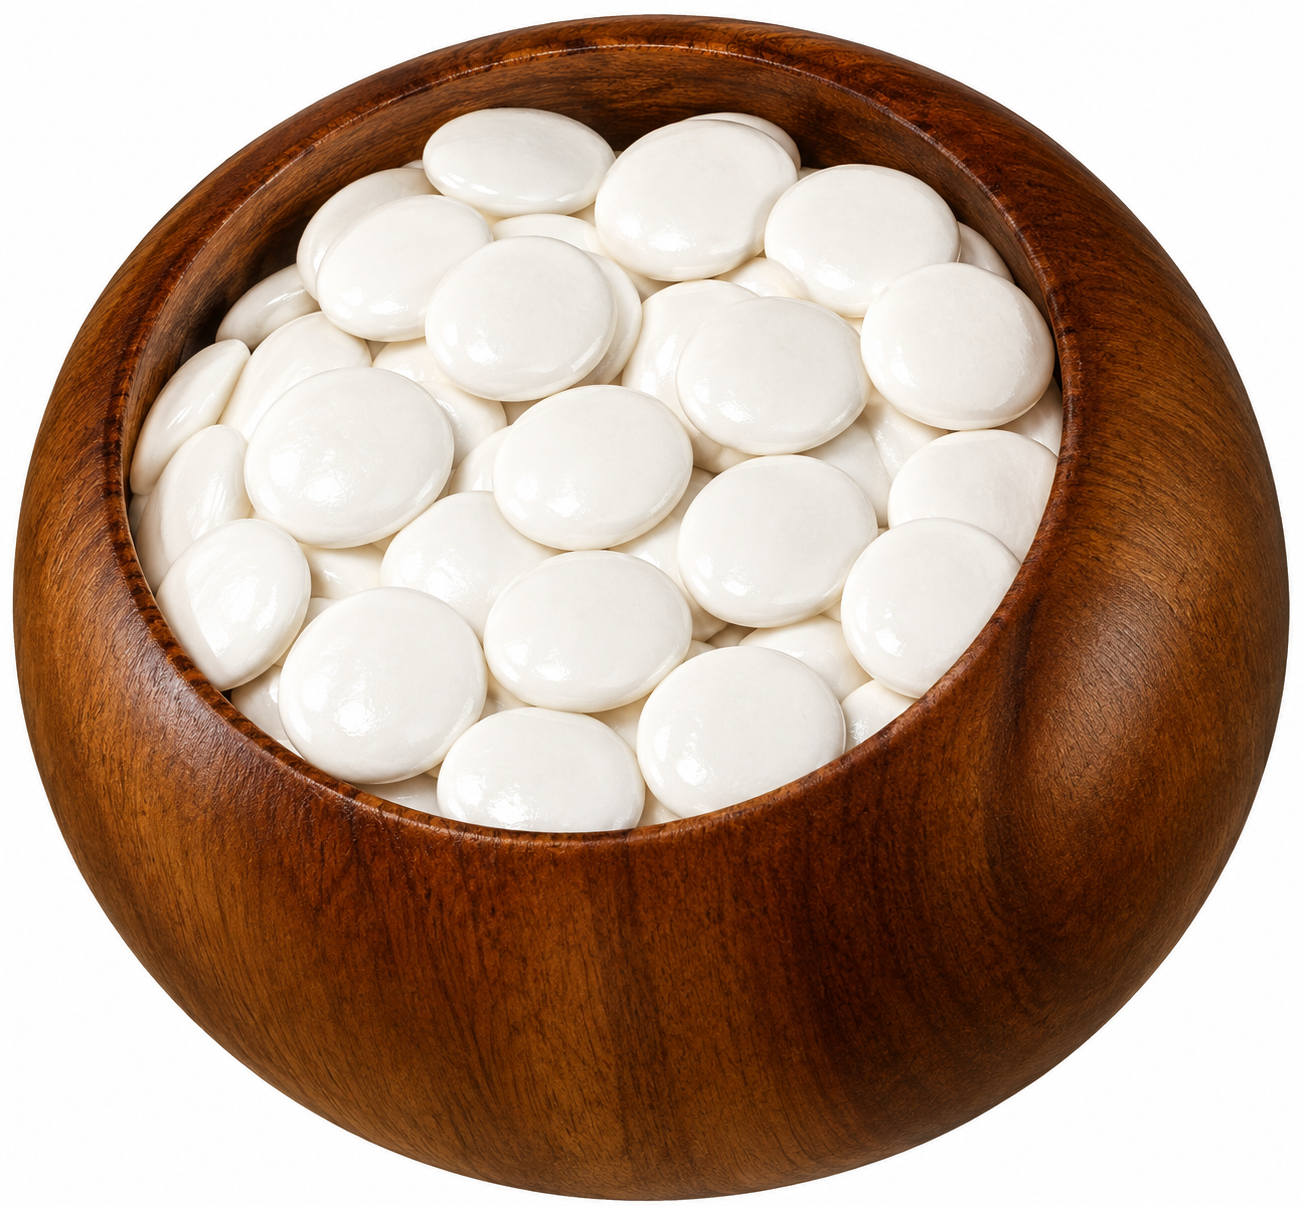
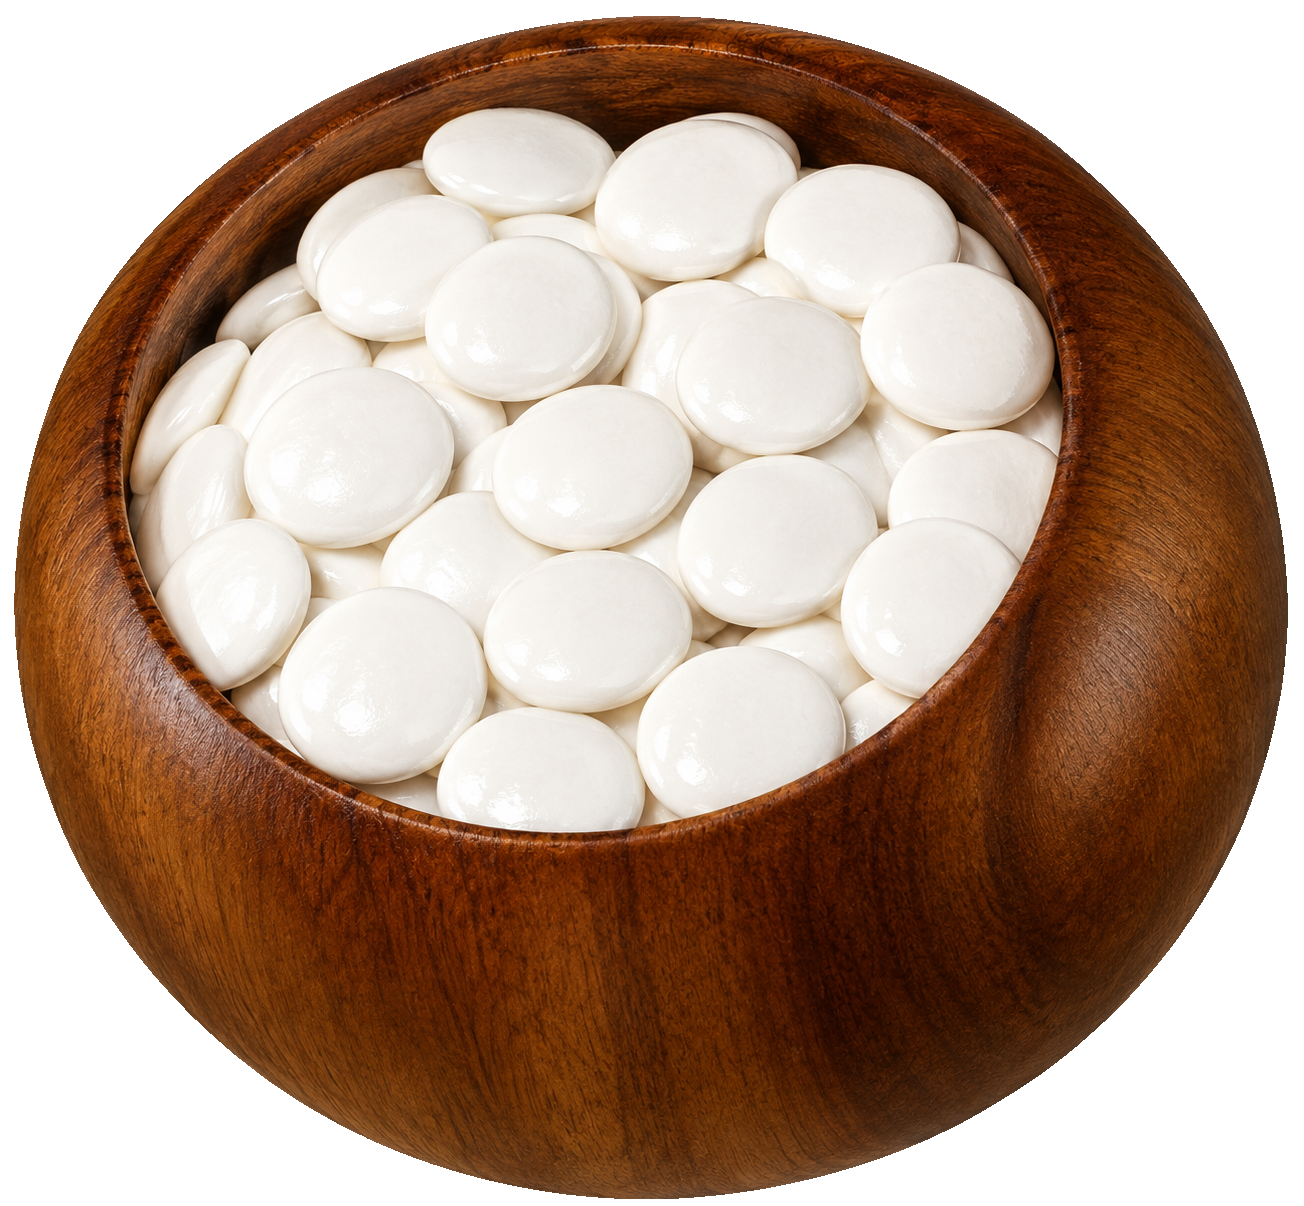
✨ UIの改善

Changed region(s): [[0.5215, 0.9818, 0.5828, 1.0], [0.3988, 0.9818, 0.4601, 1.0]]

diff --git a/components/PlayGround.tsx b/components/PlayGround.tsx
@@ -307,77 +307,103 @@ export function PlayGround({ playerIsBlack, computer, stageLabel, initialTime, t
     const pointerColor: (string | null)
         = (continueGame && (playerIsBlack === blackIsNext)) ? playerStoneColor : null;
 
+    const playerIsActive: boolean = continueGame && (playerIsBlack === blackIsNext);
+    const comBowlClass: string = "goishi-box-image-com"
+        + (!continueGame ? "" : (playerIsActive ? " bowl-waiting" : " bowl-active"));
+    const playerBowlClass: string = "goishi-box-image-player"
+        + (!continueGame ? "" : (playerIsActive ? " bowl-active" : " bowl-waiting"));
+
     return (
-        <div className="play-ground">
-            <div className="goishi-box-image-com">
-                {(playerIsBlack) &&
-                    <img src="goke-white.png"
-                        alt="white"
-                        width="96"
-                    />
-                }
-                {(!playerIsBlack) &&
-                    <img src="goke-black.png"
-                        alt="black"
-                        width="96"
-                    />
-                }
+        <div className="play-screen">
+            <div className="game-header">
+                <div className="stage-title">STAGE {stageLabel}</div>
             </div>
-            <div className="board-area">
-                <div className="turn-display">{thisTurnColor}</div>
-                <GameBoard
-                    boxes={history[currentMove]}
-                    handleClick={handleClick}
-                    pointerColor={pointerColor}
-                    markedMoves={markedMoves}
-                    winMoves={winMoves}
-                    crossMoves={crossMoves}
-                />
-                {blackIsNext !== playerIsBlack && continueGame &&
-                    <div className="computing-message">CPU考え中</div>
-                }
-                {!continueGame &&
-                    <div className="game-result">
-                        <div className="game-result-label">
-                            <div className="game-result-text">{timeIsUp ? "TIME UP" : (playerWins ? "WIN" : "LOSE")}</div>
-                            {resultNote !== "" &&
-                                <div className="game-result-note">{resultNote}</div>
+            <div className="play-ground">
+                <div className="com-area">
+                    <div className="side-block">
+                        <div className={comBowlClass}>
+                            {(playerIsBlack) &&
+                                <img src="goke-white.png"
+                                    alt="white"
+                                    width="96"
+                                />
+                            }
+                            {(!playerIsBlack) &&
+                                <img src="goke-black.png"
+                                    alt="black"
+                                    width="96"
+                                />
                             }
                         </div>
-                        <button className="game-result-button"
-                            onClick={() => onNext()}
-                        >{nextLabel}</button>
-                    </div>
-                }
-            </div>
-            <div className="game-info">
-                <div>Stage:{stageLabel}</div>
-                {hasTimeLimit &&
-                    <div className="remaining-time">
-                        <div className="time-bar">
-                            <div className={"time-bar-fill " + timeBarColor}
-                                style={{ width: (timeBarRatio * 100) + "%" }}
-                            />
+                        <div className="side-name">{computer.name}</div>
+                        <div className="side-stone-row">
+                            <span className={"side-stone " + (playerIsBlack ? "side-white" : "side-black")} />
+                            {playerIsBlack ? "後攻" : "先攻"}
                         </div>
-                        <div className={isHurrying ? "time-count time-count-hurry" : "time-count"}>{timeCount}</div>
-                        {bonusTime > 0 &&
-                            <div className="time-bonus">+{bonusTime / 1000}</div>
-                        }
                     </div>
-                }
-                <div className="goishi-box-image-player">
-                    {(!playerIsBlack) &&
-                        <img src="goke-white.png"
-                            alt="white"
-                            width="96"
-                        />
+                </div>
+                <div className="board-area">
+                    <div className="turn-display">{thisTurnColor}</div>
+                    <GameBoard
+                        boxes={history[currentMove]}
+                        handleClick={handleClick}
+                        pointerColor={pointerColor}
+                        markedMoves={markedMoves}
+                        winMoves={winMoves}
+                        crossMoves={crossMoves}
+                    />
+                    {blackIsNext !== playerIsBlack && continueGame &&
+                        <div className="computing-message">CPU考え中</div>
                     }
-                    {(playerIsBlack) &&
-                        <img src="goke-black.png"
-                            alt="black"
-                            width="96"
-                        />
+                    {!continueGame &&
+                        <div className="game-result">
+                            <div className="game-result-label">
+                                <div className="game-result-text">{timeIsUp ? "TIME UP" : (playerWins ? "WIN" : "LOSE")}</div>
+                                {resultNote !== "" &&
+                                    <div className="game-result-note">{resultNote}</div>
+                                }
+                            </div>
+                            <button className="game-result-button"
+                                onClick={() => onNext()}
+                            >{nextLabel}</button>
+                        </div>
                     }
+                </div>
+                <div className="game-info">
+                    {hasTimeLimit &&
+                        <div className="remaining-time">
+                            <div className="time-bar">
+                                <div className={"time-bar-fill " + timeBarColor}
+                                    style={{ width: (timeBarRatio * 100) + "%" }}
+                                />
+                            </div>
+                            <div className={isHurrying ? "time-count time-count-hurry" : "time-count"}>{timeCount}</div>
+                            {bonusTime > 0 &&
+                                <div className="time-bonus">+{bonusTime / 1000}</div>
+                            }
+                        </div>
+                    }
+                    <div className="side-block">
+                        <div className="side-name">あなた</div>
+                        <div className="side-stone-row">
+                            <span className={"side-stone " + (playerIsBlack ? "side-black" : "side-white")} />
+                            {playerIsBlack ? "先攻" : "後攻"}
+                        </div>
+                        <div className={playerBowlClass}>
+                            {(!playerIsBlack) &&
+                                <img src="goke-white.png"
+                                    alt="white"
+                                    width="96"
+                                />
+                            }
+                            {(playerIsBlack) &&
+                                <img src="goke-black.png"
+                                    alt="black"
+                                    width="96"
+                                />
+                            }
+                        </div>
+                    </div>
                 </div>
             </div>
             <div className="menu-area" ref={menuArea}>
@@ -386,7 +412,6 @@ export function PlayGround({ playerIsBlack, computer, stageLabel, initialTime, t
                 >☰</button>
                 {isMenuOpen &&
                     <div className="menu-panel">
-                        <div className="gamemode">相手: {computer.name}</div>
                         <button onClick={() => openUndoConfirm("back")}
                             disabled={!continueGame || currentMove === 0}
                         >1つ戻る</button>

diff --git a/styles/PlayGround.css b/styles/PlayGround.css
@@ -1,12 +1,90 @@
+.play-screen {
+    display: flex;
+    flex-direction: column;
+    margin: 0;
+    height: 92%;
+    width: 100%;
+    box-sizing: border-box;
+}
+
+.game-header {
+    flex: 0 0 36px;
+    display: flex;
+    align-items: center;
+    padding: 0 48px 0 16px;
+    box-sizing: border-box;
+}
+
+.stage-title {
+    font-size: 18px;
+    font-weight: bold;
+    letter-spacing: 0.08em;
+}
+
 .play-ground {
     display: flex;
     flex-direction: row;
     justify-content: center;
-    margin: 0;
-    height: 92%;
+    flex: 1;
+    min-height: 0;
     width: 100%;
-    padding-top: 20px;
     box-sizing: border-box;
+}
+
+.com-area {
+    width: 190px;
+    margin-right: 2.3%;
+    display: flex;
+    flex-direction: column;
+}
+
+.side-block {
+    display: flex;
+    flex-direction: column;
+}
+
+.game-info .side-block {
+    margin-top: auto;
+}
+
+.side-name {
+    margin-top: 8px;
+    font-size: 16px;
+    font-weight: bold;
+}
+
+.game-info .side-name {
+    text-align: right;
+}
+
+.side-stone-row {
+    margin-top: 4px;
+    display: flex;
+    flex-direction: row;
+    align-items: center;
+    gap: 6px;
+    font-size: 13px;
+    color: #5a5a5a;
+}
+
+.game-info .side-stone-row {
+    justify-content: flex-end;
+}
+
+.side-stone {
+    width: 14px;
+    height: 14px;
+    border-radius: 50%;
+    border: 1px solid #8a8a8a;
+    box-sizing: border-box;
+}
+
+.side-black {
+    background-color: #0a0a0b;
+}
+
+.side-white {
+    background-color: #fafafa;
 }
 
 .board-area {
@@ -22,14 +100,25 @@
     height: 24px;
 }
 
-.goishi-box-image-com {
-    margin-top: 24px;
-}
-
 .goishi-box-image-player {
-    margin-top: auto;
+    margin-top: 6px;
     display: flex;
     justify-content: flex-end;
+}
+
+.goishi-box-image-com img,
+.goishi-box-image-player img {
+    transition: filter 0.3s ease, opacity 0.3s ease, transform 0.3s ease;
+}
+
+.bowl-waiting img {
+    filter: grayscale(0.4) brightness(0.9);
+    opacity: 0.65;
+}
+
+.bowl-active img {
+    transform: translateY(-4px);
+    filter: drop-shadow(0 6px 10px rgba(0, 0, 0, 0.3));
 }
 
 .computing-message {

diff --git a/styles/GameBoard.css b/styles/GameBoard.css
@@ -1,11 +1,12 @@
 .game-board {
     align-items: center;
-    height: 90%;
+    height: calc(100% - 32px);
     aspect-ratio: 1/1;
     display: flex;
     flex-direction: column;
     background-image: url(../public/goban.png);
     background-size: 100% 100%;
+    box-shadow: 0 6px 20px rgba(0, 0, 0, 0.3);
     position: relative;
     z-index: 0;
 }
@@ -82,11 +83,13 @@
 }
 
 .white {
-    background-color: #fafafa;
+    background: radial-gradient(circle at 34% 28%, #ffffff 0%, #f4f1ea 42%, #d5cec1 100%);
+    box-shadow: inset -1px -2px 3px rgba(90, 80, 60, 0.18), 0 2px 3px rgba(0, 0, 0, 0.35);
 }
 
 .black {
-    background-color: #0a0a0b;
+    background: radial-gradient(circle at 34% 28%, #6b6b72 0%, #26262b 40%, #08080a 100%);
+    box-shadow: inset -1px -2px 3px rgba(0, 0, 0, 0.55), 0 2px 3px rgba(0, 0, 0, 0.45);
     color: #fafafa;
 }
 

diff --git a/styles/GameInfo.css b/styles/GameInfo.css
@@ -1,11 +1,11 @@
 .game-info {
-    height: 90%;
+    height: 100%;
     width: 190px;
-    margin-top: 24px;
+    margin-top: 0;
     margin-left: 2.3%;
     display: flex;
     flex-direction: column;
-    overflow: hidden;
+    overflow: visible;
 }
 
 .gamemode {
@@ -14,7 +14,7 @@
 
 .remaining-time {
     position: relative;
-    margin: 3px;
+    margin: 51px 3px 3px;
     display: flex;
     flex-direction: row;
     align-items: center;
@@ -26,7 +26,7 @@
     height: 14px;
     border: 1px solid #8a8a8a;
     border-radius: 7px;
-    overflow: hidden;
+    overflow: visible;
     background-color: #e0e0e0;
 }
 
